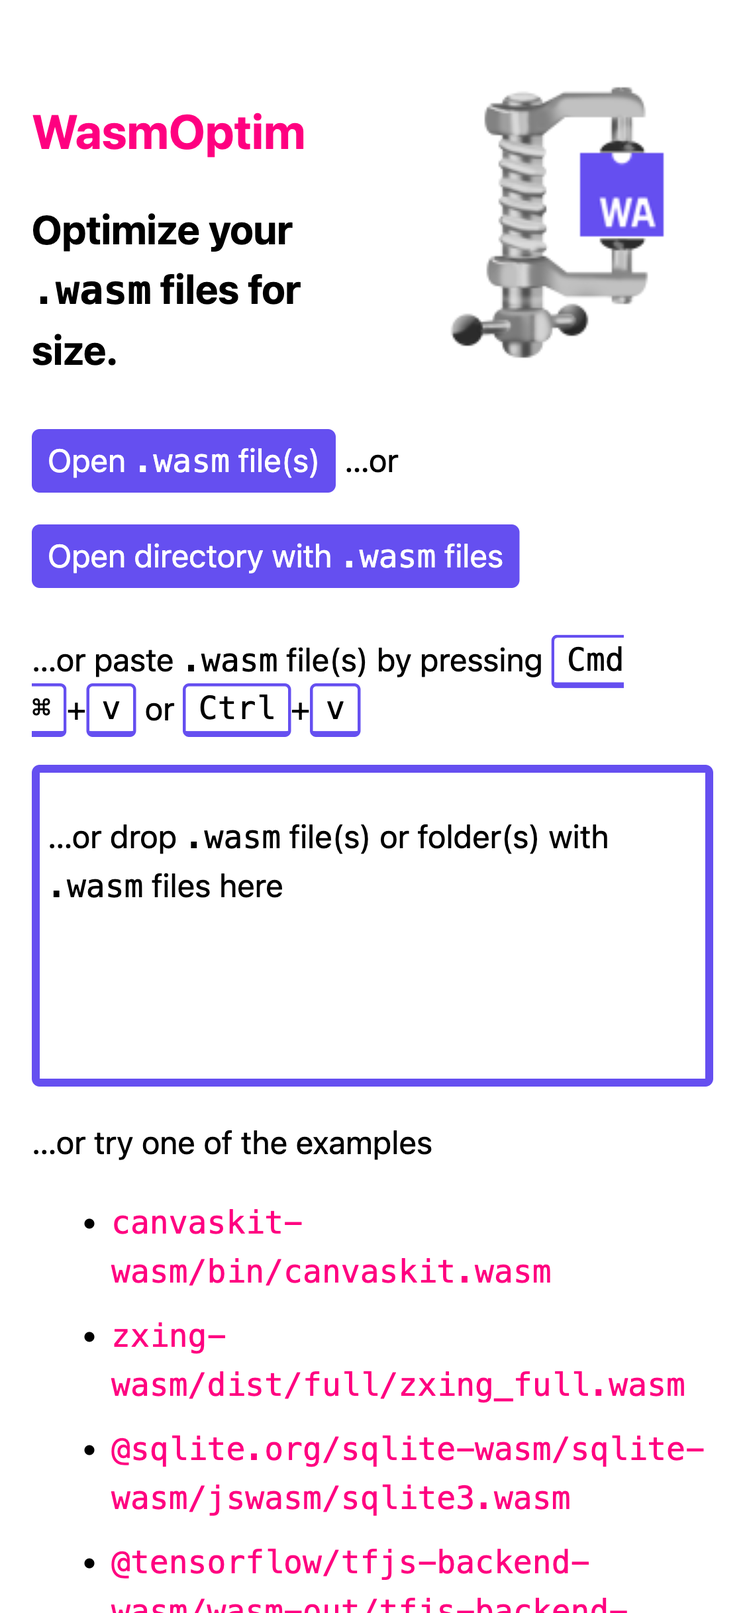
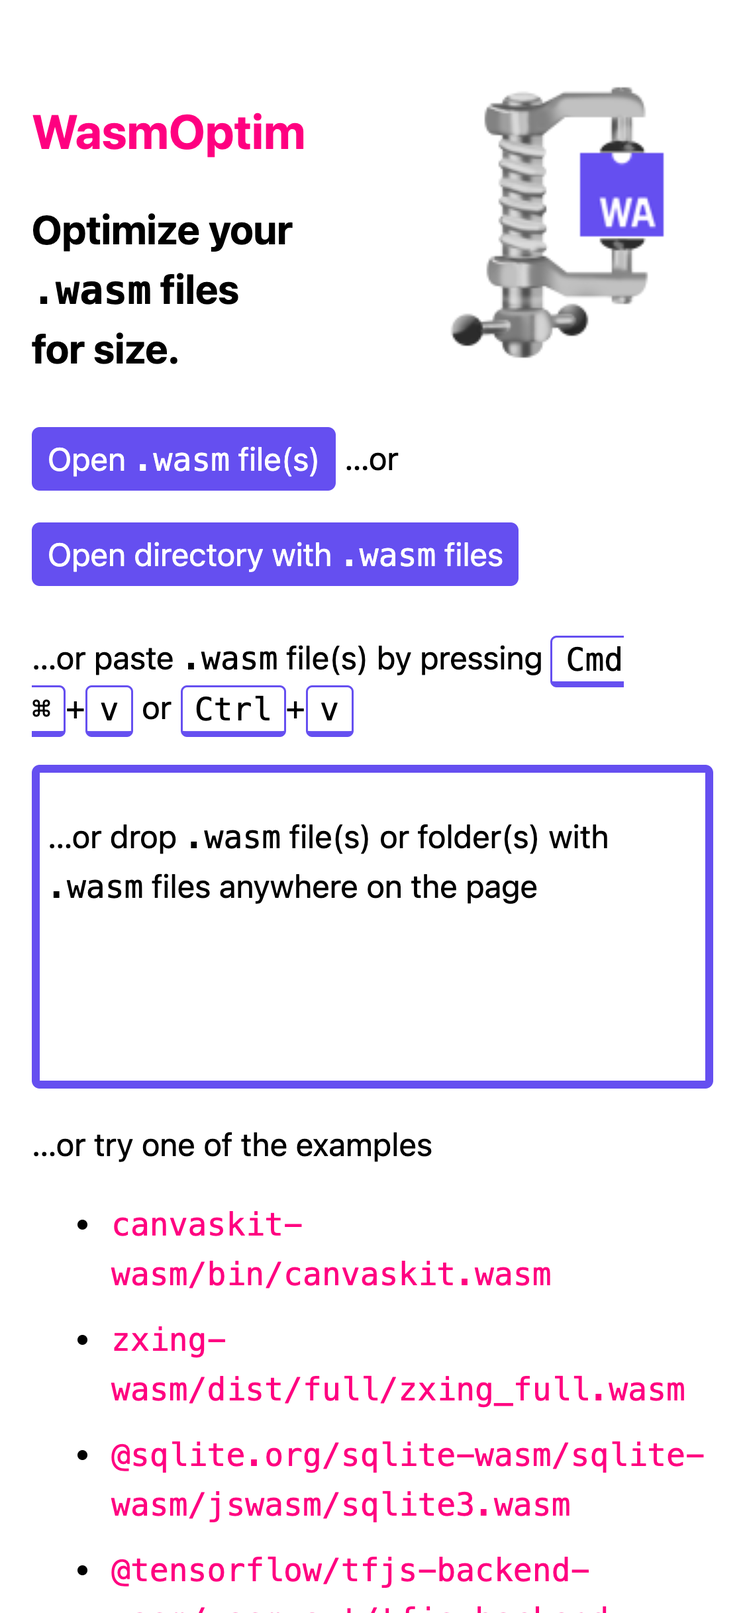
Properly lazy-load file system observer

diff --git a/docs/assets/index-Q6DBO2Sq.js b/docs/assets/index-Q6DBO2Sq.js
@@ -1,0 +1,7 @@
+(function(){const t=document.createElement("link").relList;if(t&&t.supports&&t.supports("modulepreload"))return;for(const o of document.querySelectorAll('link[rel="modulepreload"]'))s(o);new MutationObserver(o=>{for(const n of o)if(n.type==="childList")for(const a of n.addedNodes)a.tagName==="LINK"&&a.rel==="modulepreload"&&s(a)}).observe(document,{childList:!0,subtree:!0});function r(o){const n={};return o.integrity&&(n.integrity=o.integrity),o.referrerPolicy&&(n.referrerPolicy=o.referrerPolicy),o.crossOrigin==="use-credentials"?n.credentials="include":o.crossOrigin==="anonymous"?n.credentials="omit":n.credentials="same-origin",n}function s(o){if(o.ep)return;o.ep=!0;const n=r(o);fetch(o.href,n)}})();const re="modulepreload",se=function(e){return"/wasmoptim/"+e},$={},k=function(t,r,s){if(!r||r.length===0)return t();const o=document.getElementsByTagName("link");return Promise.all(r.map(n=>{if(n=se(n),n in $)return;$[n]=!0;const a=n.endsWith(".css"),c=a?'[rel="stylesheet"]':"";if(!!s)for(let l=o.length-1;l>=0;l--){const m=o[l];if(m.href===n&&(!a||m.rel==="stylesheet"))return}else if(document.querySelector(`link[href="${n}"]${c}`))return;const d=document.createElement("link");if(d.rel=a?"stylesheet":re,a||(d.as="script",d.crossOrigin=""),d.href=n,document.head.appendChild(d),a)return new Promise((l,m)=>{d.addEventListener("load",l),d.addEventListener("error",()=>m(new Error(`Unable to preload CSS for ${n}`)))})})).then(()=>t()).catch(n=>{const a=new Event("vite:preloadError",{cancelable:!0});if(a.payload=n,window.dispatchEvent(a),!a.defaultPrevented)throw n})},B="/wasmoptim/spinner.svg",v=new Map,ne="FileSystemHandle"in window&&"getUniqueId"in FileSystemHandle.prototype,W=async e=>{for(const t of e)await t.handle.requestPermission({mode:"readwrite"})},ae=async e=>{const t=[],r=async o=>{const n=await new Promise(a=>o.readEntries(a));await Promise.all(n.map(async a=>{a.isDirectory?await r(a.createReader()):t.push(a)}))},s=e.createReader();return await r(s),t},H=async(e,t,r=e.name,s)=>{const o=[],n=[];for await(const a of e.values()){const c=`${r}/${a.name}`;a.kind==="file"?n.push(a.getFile().then(i=>(i.directoryHandle=e,i.handle=a,Object.defineProperty(i,"webkitRelativePath",{configurable:!0,enumerable:!0,get:()=>c})))):a.kind==="directory"&&t&&o.push(H(a,t,c))}return[...(await Promise.all(o)).flat(),...await Promise.all(n)]},oe=["B","kB","MB","GB","TB","PB","EB","ZB","YB"],ie=["B","KiB","MiB","GiB","TiB","PiB","EiB","ZiB","YiB"],ce=["b","kbit","Mbit","Gbit","Tbit","Pbit","Ebit","Zbit","Ybit"],le=["b","kibit","Mibit","Gibit","Tibit","Pibit","Eibit","Zibit","Yibit"],M=(e,t,r)=>{let s=e;return typeof t=="string"||Array.isArray(t)?s=e.toLocaleString(t,r):(t===!0||r!==void 0)&&(s=e.toLocaleString(void 0,r)),s};function g(e,t){if(!Number.isFinite(e))throw new TypeError(`Expected a finite number, got ${typeof e}: ${e}`);t={bits:!1,binary:!1,space:!0,...t};const r=t.bits?t.binary?le:ce:t.binary?ie:oe,s=t.space?" ":"";if(t.signed&&e===0)return` 0${s}${r[0]}`;const o=e<0,n=o?"-":t.signed?"+":"";o&&(e=-e);let a;if(t.minimumFractionDigits!==void 0&&(a={minimumFractionDigits:t.minimumFractionDigits}),t.maximumFractionDigits!==void 0&&(a={maximumFractionDigits:t.maximumFractionDigits,...a}),e<1){const l=M(e,t.locale,a);return n+l+s+r[0]}const c=Math.min(Math.floor(t.binary?Math.log(e)/Math.log(1024):Math.log10(e)/3),r.length-1);e/=(t.binary?1024:1e3)**c,a||(e=e.toPrecision(3));const i=M(Number(e),t.locale,a),d=r[c];return n+i+s+d}const b=(()=>{if(typeof self>"u")return!1;if("top"in self&&self!==top)try{top.window.document._=0}catch{return!1}return"showOpenFilePicker"in self})(),de=b?Promise.resolve().then(function(){return ge}):Promise.resolve().then(function(){return ke});async function ue(...e){return(await de).default(...e)}const me=b?Promise.resolve().then(function(){return ve}):Promise.resolve().then(function(){return xe});async function fe(...e){return(await me).default(...e)}const pe=b?Promise.resolve().then(function(){return Se}):Promise.resolve().then(function(){return _e});async function G(...e){return(await pe).default(...e)}const ye=async e=>{const t=await e.getFile();return t.handle=e,t};var he=async(e=[{}])=>{Array.isArray(e)||(e=[e]);const t=[];e.forEach((o,n)=>{t[n]={description:o.description||"Files",accept:{}},o.mimeTypes?o.mimeTypes.map(a=>{t[n].accept[a]=o.extensions||[]}):t[n].accept["*/*"]=o.extensions||[]});const r=await window.showOpenFilePicker({id:e[0].id,startIn:e[0].startIn,types:t,multiple:e[0].multiple||!1,excludeAcceptAllOption:e[0].excludeAcceptAllOption||!1}),s=await Promise.all(r.map(ye));return e[0].multiple?s:s[0]},ge={__proto__:null,default:he};function z(e){function t(r){if(Object(r)!==r)return Promise.reject(new TypeError(r+" is not an object."));var s=r.done;return Promise.resolve(r.value).then(function(o){return{value:o,done:s}})}return z=function(r){this.s=r,this.n=r.next},z.prototype={s:null,n:null,next:function(){return t(this.n.apply(this.s,arguments))},return:function(r){var s=this.s.return;return s===void 0?Promise.resolve({value:r,done:!0}):t(s.apply(this.s,arguments))},throw:function(r){var s=this.s.return;return s===void 0?Promise.reject(r):t(s.apply(this.s,arguments))}},new z(e)}const Z=async(e,t,r=e.name,s)=>{const o=[],n=[];var a,c=!1,i=!1;try{for(var d,l=function(m){var u,f,y,x=2;for(typeof Symbol<"u"&&(f=Symbol.asyncIterator,y=Symbol.iterator);x--;){if(f&&(u=m[f])!=null)return u.call(m);if(y&&(u=m[y])!=null)return new z(u.call(m));f="@@asyncIterator",y="@@iterator"}throw new TypeError("Object is not async iterable")}(e.values());c=!(d=await l.next()).done;c=!1){const m=d.value,u=`${r}/${m.name}`;m.kind==="file"?n.push(m.getFile().then(f=>(f.directoryHandle=e,f.handle=m,Object.defineProperty(f,"webkitRelativePath",{configurable:!0,enumerable:!0,get:()=>u})))):m.kind!=="directory"||!t||s&&s(m)||o.push(Z(m,t,u,s))}}catch(m){i=!0,a=m}finally{try{c&&l.return!=null&&await l.return()}finally{if(i)throw a}}return[...(await Promise.all(o)).flat(),...await Promise.all(n)]};var we=async(e={})=>{e.recursive=e.recursive||!1,e.mode=e.mode||"read";const t=await window.showDirectoryPicker({id:e.id,startIn:e.startIn,mode:e.mode});return(await(await t.values()).next()).done?[t]:Z(t,e.recursive,void 0,e.skipDirectory)},ve={__proto__:null,default:we},be=async(e,t=[{}],r=null,s=!1,o=null)=>{Array.isArray(t)||(t=[t]),t[0].fileName=t[0].fileName||"Untitled";const n=[];let a=null;if(e instanceof Blob&&e.type?a=e.type:e.headers&&e.headers.get("content-type")&&(a=e.headers.get("content-type")),t.forEach((d,l)=>{n[l]={description:d.description||"Files",accept:{}},d.mimeTypes?(l===0&&a&&d.mimeTypes.push(a),d.mimeTypes.map(m=>{n[l].accept[m]=d.extensions||[]})):a?n[l].accept[a]=d.extensions||[]:n[l].accept["*/*"]=d.extensions||[]}),r)try{await r.getFile()}catch(d){if(r=null,s)throw d}const c=r||await window.showSaveFilePicker({suggestedName:t[0].fileName,id:t[0].id,startIn:t[0].startIn,types:n,excludeAcceptAllOption:t[0].excludeAcceptAllOption||!1});!r&&o&&o(c);const i=await c.createWritable();return"stream"in e?(await e.stream().pipeTo(i),c):"body"in e?(await e.body.pipeTo(i),c):(await i.write(await e),await i.close(),c)},Se={__proto__:null,default:be},Le=async(e=[{}])=>(Array.isArray(e)||(e=[e]),new Promise((t,r)=>{const s=document.createElement("input");s.type="file";const o=[...e.map(i=>i.mimeTypes||[]),...e.map(i=>i.extensions||[])].join();s.multiple=e[0].multiple||!1,s.accept=o||"",s.style.display="none",document.body.append(s);const n=i=>{typeof a=="function"&&a(),t(i)},a=e[0].legacySetup&&e[0].legacySetup(n,()=>a(r),s),c=()=>{window.removeEventListener("focus",c),s.remove()};s.addEventListener("click",()=>{window.addEventListener("focus",c)}),s.addEventListener("change",()=>{window.removeEventListener("focus",c),s.remove(),n(s.multiple?Array.from(s.files):s.files[0])}),"showPicker"in HTMLInputElement.prototype?s.showPicker():s.click()})),ke={__proto__:null,default:Le},Ee=async(e=[{}])=>(Array.isArray(e)||(e=[e]),e[0].recursive=e[0].recursive||!1,new Promise((t,r)=>{const s=document.createElement("input");s.type="file",s.webkitdirectory=!0;const o=a=>{typeof n=="function"&&n(),t(a)},n=e[0].legacySetup&&e[0].legacySetup(o,()=>n(r),s);s.addEventListener("change",()=>{let a=Array.from(s.files);e[0].recursive?e[0].recursive&&e[0].skipDirectory&&(a=a.filter(c=>c.webkitRelativePath.split("/").every(i=>!e[0].skipDirectory({name:i,kind:"directory"})))):a=a.filter(c=>c.webkitRelativePath.split("/").length===2),o(a)}),"showPicker"in HTMLInputElement.prototype?s.showPicker():s.click()})),xe={__proto__:null,default:Ee},Pe=async(e,t={})=>{Array.isArray(t)&&(t=t[0]);const r=document.createElement("a");let s=e;"body"in e&&(s=await async function(a,c){const i=a.getReader(),d=new ReadableStream({start:u=>async function f(){return i.read().then(({done:y,value:x})=>{if(!y)return u.enqueue(x),f();u.close()})}()}),l=new Response(d),m=await l.blob();return i.releaseLock(),new Blob([m],{type:c})}(e.body,e.headers.get("content-type"))),r.download=t.fileName||"Untitled",r.href=URL.createObjectURL(await s);const o=()=>{typeof n=="function"&&n()},n=t.legacySetup&&t.legacySetup(o,()=>n(),r);return r.addEventListener("click",()=>{setTimeout(()=>URL.revokeObjectURL(r.href),3e4),o()}),r.click(),null},_e={__proto__:null,default:Pe};const Ae=document.querySelector("#load-wasm"),V=document.querySelector("#merge-button"),L=document.querySelector("#merge-area"),qe=document.querySelector("#load-directory"),O=document.querySelector("#drop-area"),w=document.querySelector("#results-area"),ze=document.querySelector("#total-delta-size"),Fe=document.querySelector("#stats-template"),Te=document.querySelector("#example-template"),Ce=document.querySelector("#stats-header"),F=document.querySelector("#select-all-checkbox"),h=document.querySelector("#overwrite-checkbox"),Be=document.querySelector("#observe-file-changes-checkbox"),Y=document.querySelector("#observe-directory-changes-checkbox"),K=document.querySelector("#examples-list"),U=document.querySelector("meta[name=theme-color]"),Oe=document.querySelector("#stats-files"),De=document.querySelector("#stats-size"),Ie=document.querySelector("#stats-percent"),T=crypto.randomUUID();V.addEventListener("click",async()=>{const e=L.querySelector(".file-name"),t=L.querySelector(".before-size"),r=L.querySelector(".after-size"),s=L.querySelector(".delta-size"),o=L.querySelector(".spinner");e.hidden=!0,e.dataset.uuid=T,L.hidden=!1,o.src=B,r.classList.remove("error"),r.textContent="",s.textContent="Merging…",s.classList.remove("size-smaller"),s.classList.remove("size-larger"),s.classList.remove("error");const n=[],a=[];w.querySelectorAll("input:checked").forEach(d=>{const l=d.closest("tr").querySelector("[data-uuid]").dataset.uuid,{file:m}=v.get(l);n.push(m),a.push(l)});const c=n.reduce((d,l)=>d+l.size,0);t.textContent=`Σ ${g(c)}`;const i=new Worker(new URL("/wasmoptim/assets/merge-worker-ib07Dost.js",import.meta.url),{type:"module"});i.addEventListener("message",async d=>{if(d.data.status){s.textContent="Optimizing…";return}i.terminate();const{file:l,error:m}=d.data;if(o.removeAttribute("src"),m){const y=new Error(m);r.classList.add("error"),s.classList.add("error"),r.textContent=y.name,s.textContent=y.message;return}e.hidden=!1,e.querySelector("code").textContent=l.name,r.textContent=g(l.size);const u=l.size-c;console.log(`${new Intl.ListFormat("en",{style:"long",type:"conjunction"}).format(n.map(y=>y.name))} merged → Before Σ: ${c} After: ${l.size} Delta: ${u}`);const f=Math.abs(100-l.size/c*100).toFixed(2);s.textContent=Number(f)===0?"no change":`${f}% ${u<0?"smaller":"larger"} (${g(Math.abs(u))})`,s.classList.add(Number(f)===0?"size-larger":u<0?"size-smaller":"size-larger"),v.set(T,{file:l})}),i.postMessage({wasmFiles:n,uuids:a})});const Ne=async(e,t)=>{const r=[],s=async n=>{for(const[a,c]of n)try{r[a]=await c()}catch(i){r[a]=new Error(`Failed with: ${i.message}`)}},o=new Array(t).fill(e.entries()).map(s);return await Promise.allSettled(o),r},Ue=(e,t)=>{let r;return function(...o){const n=()=>{clearTimeout(r),e(...o)};clearTimeout(r),r=setTimeout(n,t)}},X="https://wasmoptim-stats.glitch.me",Re=async(e,t)=>{const r={"Content-Type":"application/json"},s=JSON.stringify({beforeSize:e,afterSize:t});try{await(await fetch(`${X}/saved-bytes`,{method:"POST",headers:r,body:s})).json()}catch(o){if(location.hostname==="localhost")return;console.error(o.name,o.message)}},J=async()=>{const e={"Content-Type":"application/json"};try{const r=await(await fetch(`${X}/saved-bytes`,{method:"GET",headers:e})).json();Oe.textContent=`${new Intl.NumberFormat().format(r.entryCount)} ${r.entryCount===1?"file":"files"}`,De.textContent=g(r.totalBytesSaved),Ie.textContent=Number(r.averagePercentageSaved).toFixed(2)}catch(t){if(location.hostname==="localhost")return;console.error(t.name,t.message)}};J();const j="setAppBadge"in navigator;let q=0;const _=async(e,t=!1)=>{Ce.hidden=!1,w.closest("table").hidden=!1;const r=[];for(const s of e){const o=ne&&s.handle?await s.handle.getUniqueId():s.name;let n,a,c,i,d,l;const m=w.querySelector(`[data-uuid="${o}"]`);if(m){const u=m.closest("tr");n=u.querySelector(".file-name"),a=u.querySelector(".before-size"),c=u.querySelector(".after-size"),i=u.querySelector(".delta-size"),d=u.querySelector(".spinner"),l=u.querySelector(".merge-checkbox")}else{const u=Fe.content.cloneNode(!0);n=u.querySelector(".file-name"),a=u.querySelector(".before-size"),c=u.querySelector(".after-size"),i=u.querySelector(".delta-size"),d=u.querySelector(".spinner"),l=u.querySelector(".merge-checkbox"),w.append(u);const f=w.querySelectorAll("tr").length>1;F.closest("th").style.display=f?"":"none",w.querySelectorAll("input").forEach(y=>{y.closest("td").style.display=f?"":"none"})}if(d.src=B,i.textContent="Optimizing…",i.classList.remove("size-smaller"),i.classList.remove("size-larger"),i.classList.remove("error"),c.classList.remove("error"),n.querySelector("code").textContent=s.name,n.classList.add("processing"),l.classList.add("processing"),l.disabled=!0,j)try{await navigator.setAppBadge(++q)}catch(u){console.error(u.name,u.message)}a.textContent=g(s.size),n.dataset.uuid=o,r.push(()=>new Promise((u,f)=>{const y=new Worker(new URL("/wasmoptim/assets/binaryen-worker-vGG0wOcy.js",import.meta.url));y.addEventListener("message",async x=>{if(y.terminate(),d.removeAttribute("src"),n.classList.remove("processing"),l.classList.remove("processing"),l.disabled=!1,j){--q;try{q===0?await navigator.clearAppBadge():await navigator.setAppBadge(q)}catch(p){console.error(p.name,p.message)}}const{wasmFileAfter:S,error:I}=x.data;if(I){const p=new Error(I);n.classList.add("error"),c.classList.add("error"),i.classList.add("error"),l.classList.add("error"),l.disabled=!0,c.textContent=p.name,i.textContent=p.message,f(p);return}c.textContent=g(S.size);const E=S.size-s.size;console.log(`${s.name} processed → Before: ${s.size} After: ${S.size} Delta: ${E}`);const C=Math.abs(100-S.size/s.size*100).toFixed(2);i.textContent=Number(C)===0?"no change":`${C}% ${E<0?"smaller":"larger"} (${g(Math.abs(E))})`,i.classList.add(Number(C)===0?"size-larger":E<0?"size-smaller":"size-larger"),v.set(o,{file:S,handle:s.handle,savings:E});const N=[];for(const[p,{savings:A}]of v.entries())p!==T&&N.push(A);const R=N.reduce((p,A)=>p+A,0),te=R/v.size;if(ze.textContent=`Saved ${g(Math.abs(R))} in total and ${g(Math.abs(te))} per file on average`,E<0&&(Re(s.size,S.size).then(()=>J()),ee&&b&&h.checked&&s.handle))try{const p=await s.handle.createWritable();await p.write(S),await p.close()}catch(p){console.error(p.name,p.message)}if(P&&Be.checked&&s.handle){const{getFileSystemChangeObserver:p}=await k(()=>import("./file-system-observer-bRkZsY_G.js"),__vite__mapDeps([]));p().observe(s.handle),console.log(`File ${s.name} → Observing changes`)}u()}),y.postMessage({wasmFileBefore:s})}))}await Ne(r,"hardwareConcurrency"in navigator?Math.floor(navigator.hardwareConcurrency):4)};b&&(h.parentNode.hidden=!1,h.addEventListener("change",()=>{localStorage.setItem("overwrite-original-files",h.checked);const e=[];if(h.checked){for(const[t,{file:r}]of v.entries())t===T||!r.handle||e.push(r);W(e)}}),localStorage.getItem("overwrite-original-files")!=="true"?h.checked=!1:h.checked=!0);const $e=["https://unpkg.com/canvaskit-wasm@0.39.1/bin/canvaskit.wasm","https://unpkg.com/zxing-wasm@1.0.0-rc.4/dist/full/zxing_full.wasm","https://unpkg.com/@sqlite.org/sqlite-wasm@3.44.0-build1/sqlite-wasm/jswasm/sqlite3.wasm","https://unpkg.com/@tensorflow/tfjs-backend-wasm@4.13.0/wasm-out/tfjs-backend-wasm.wasm"],Me=/@(0|[1-9]\d*)\.(0|[1-9]\d*)\.(0|[1-9]\d*)(?:-((?:0|[1-9]\d*|\d*[a-zA-Z-][0-9a-zA-Z-]*)(?:\.(?:0|[1-9]\d*|\d*[a-zA-Z-][0-9a-zA-Z-]*))*))?(?:\+([0-9a-zA-Z-]+(?:\.[0-9a-zA-Z-]+)*))?/;$e.forEach(e=>{const t=Te.content.cloneNode(!0),r=t.querySelector("code"),s=t.querySelector("a");r.textContent=e.replace("https://unpkg.com/","").replace(Me,""),s.href=e,K.append(t)});K.addEventListener("click",async e=>{const t=e.target.nodeName.toLowerCase();if(t!=="a"&&t!=="code")return;e.preventDefault();const r=e.target.closest("a"),s=r.href,o=r.parentNode.querySelector(".downloading");o.textContent="Downloading…",o.classList.remove("error"),o.hidden=!1;const n=r.parentNode.querySelector("img");n.src=B;try{const a=await fetch(s).then(i=>i.blob());n.removeAttribute("src"),o.hidden=!0;const c=new File([a],s.split("/").pop(),{type:"application/wasm"});c.handle=!1,_([c])}catch(a){console.error(a.name,a.message),n.removeAttribute("src"),o.classList.add("error"),o.textContent=a.message}});document.addEventListener("paste",e=>{try{if(!e.clipboardData.files.length)return;const t=Array.from(e.clipboardData.files).filter(r=>r.type==="application/wasm"||r.name.endsWith(".wasm")||r.name.endsWith(".wat"));_(t)}catch(t){console.error(t.name,t.message)}});const D=()=>{const e=w.querySelectorAll("input:checked").length;V.style.display=e<2?"none":""};D();F.addEventListener("click",()=>{w.querySelectorAll("input:not(:disabled)").forEach(e=>{e.checked=F.checked}),D()});w.addEventListener("click",async e=>{const t=e.target.nodeName.toLowerCase();if(t==="input"||t==="label"){if(e.target.classList.contains("error")||e.target.classList.contains("processing"))return;e.target.checked||(F.checked=!1),D();return}if(t!=="a"&&t!=="code")return;e.preventDefault();const r=e.target.closest("a");if(!r.classList.contains("file-name")||r.classList.contains("error")||r.classList.contains("processing"))return;const s=r.dataset.uuid,{file:o,handle:n}=v.get(s);try{await G(o,{fileName:o.name,extensions:[".wasm",".wat"],mimeTypes:["application/wasm"],existingHandle:n||void 0,startIn:n||void 0})}catch(a){if(a.name==="AbortError")return;console.error(a.name,a.message)}});L.addEventListener("click",async e=>{const t=e.target.nodeName.toLowerCase();if(t!=="a"&&t!=="code")return;e.preventDefault();const r=e.target.closest("a");if(!r.classList.contains("file-name")||r.classList.contains("error")||r.classList.contains("processing"))return;const s=r.dataset.uuid,{file:o,handle:n}=v.get(s);try{await G(o,{fileName:o.name,extensions:[".wasm"],mimeTypes:["application/wasm"],existingHandle:n||void 0,startIn:n||void 0})}catch(a){if(a.name==="AbortError")return;console.error(a.name,a.message)}});qe.addEventListener("click",async()=>{try{const e=await fe({recursive:!0,mode:h.checked?"readwrite":"read"}),t=e.filter(r=>r.type==="application/wasm"||r.name.endsWith(".wasm")||r.name.endsWith(".wat"));if(b&&P&&Y.checked){let r=[];for(const a of e)r.push(a.directoryHandle);r=[...new Set(r)];const{getFileSystemChangeObserver:s,observedDirectories:o}=await k(()=>import("./file-system-observer-bRkZsY_G.js"),__vite__mapDeps([])),n=s();r.forEach(a=>{n.observe(a,{recursive:!0}),o.add(a),console.log(`Directory ${a.name} → Observing changes`)})}_(t)}catch(e){if(e.name==="AbortError")return;console.error(e.name,e.message)}});Ae.addEventListener("click",async()=>{try{const e=await ue({mimeTypes:["application/wasm"],extensions:[".wasm",".wat"],multiple:!0});if(!e||!e.length)return;_(e)}catch(e){if(e.name==="AbortError")return;console.error(e.name,e.message)}});document.addEventListener("dragover",e=>{e.preventDefault()});document.addEventListener("dragenter",e=>{e.preventDefault(),O.classList.add("drag-hover")});document.addEventListener("dragleave",e=>{e.preventDefault(),e.target===document.documentElement&&O.classList.remove("drag-hover")});document.addEventListener("drop",async e=>{e.preventDefault(),O.classList.remove("drag-hover");const t=[...e.dataTransfer.items].filter(n=>n.kind==="file").map(n=>ee?n.getAsFileSystemHandle():n.webkitGetAsEntry()),r=[];let s,o;P&&({getFileSystemChangeObserver:s,observedDirectories:o}=await k(()=>import("./file-system-observer-bRkZsY_G.js"),__vite__mapDeps([])));for await(const n of t){if(n.kind==="directory"){let c=await H(n,!0);if(c=c.filter(i=>i.type==="application/wasm"||i.name.endsWith(".wasm")||i.name.endsWith(".wat")),r.push(...c),P&&Y.checked){let i=[];for(const l of c)i.push(l.directoryHandle);i=[...new Set(i)];const d=s();i.forEach(l=>{d.observe(l,{recursive:!0}),o.add(l),console.log(`Directory ${l.name} → Observing changes`)})}continue}else if(n.isDirectory){let c=await ae(n);c=c.filter(i=>i.name.endsWith(".wasm")||i.name.endsWith(".wat")),r.push(...await Promise.all(c.map(async i=>new Promise(d=>i.file(d)))));continue}let a;n.kind==="file"?(a=await n.getFile(),a.handle=n):n.isFile&&(a=await new Promise(c=>n.file(i=>c(i)))),!(a.type&&a.type!=="application/wasm"||!a.name.endsWith(".wasm")&&!a.name.endsWith(".wat"))&&r.push(a)}b&&b&&h.checked&&await W(r),_(r)});const Q=e=>{if(e.matches){U.content="rgb(32, 33, 36)";return}U.content="#fff"};matchMedia("(prefers-color-scheme: dark)").addEventListener("change",Q);Q(matchMedia("(prefers-color-scheme: dark)"));const ee="getAsFileSystemHandle"in DataTransferItem.prototype,P="FileSystemObserver"in window;(async()=>{if(P&&k(()=>import("./file-system-observer-bRkZsY_G.js"),__vite__mapDeps([])),"launchQueue"in window&&"files"in LaunchParams.prototype&&k(()=>import("./file-handling-2mzXeyDV.js"),__vite__mapDeps([])),"serviceWorker"in navigator){const{registerSW:e}=await k(()=>import("./virtual_pwa-register-vkA2GBtN.js"),__vite__mapDeps([]));e({onOfflineReady(){},onNeedRefresh(){location.reload()}})(),"share"in navigator&&k(()=>import("./web-share-target-t8B_ZJyO.js"),__vite__mapDeps([]))}})();export{T as M,k as _,Y as a,_ as b,h as c,Ue as d,b as e,W as f,Be as o,H as r,ne as s,v as u};
+function __vite__mapDeps(indexes) {
+  if (!__vite__mapDeps.viteFileDeps) {
+    __vite__mapDeps.viteFileDeps = []
+  }
+  return indexes.map((i) => __vite__mapDeps.viteFileDeps[i])
+}

diff --git a/docs/sw.js b/docs/sw.js
@@ -1,1 +1,1 @@
-if(!self.define){let e,s={};const r=(r,i)=>(r=new URL(r+".js",i).href,s[r]||new Promise((s=>{if("document"in self){const e=document.createElement("script");e.src=r,e.onload=s,document.head.appendChild(e)}else e=r,importScripts(r),s()})).then((()=>{let e=s[r];if(!e)throw new Error(`Module ${r} didn’t register its module`);return e})));self.define=(i,n)=>{const l=e||("document"in self?document.currentScript.src:"")||location.href;if(s[l])return;let o={};const a=e=>r(e,l),t={module:{uri:l},exports:o,require:a};s[l]=Promise.all(i.map((e=>t[e]||a(e)))).then((e=>(n(...e),o)))}}define(["./workbox-fa446783"],(function(e){"use strict";self.skipWaiting(),e.clientsClaim(),e.precacheAndRoute([{url:"assets/binaryen_wasm-jWqOSAAT.js",revision:null},{url:"assets/binaryen_wasm-oRR6JeeR.js",revision:null},{url:"assets/binaryen_wasm-r8Q--SC0.wasm",revision:null},{url:"assets/binaryen-worker-vGG0wOcy.js",revision:null},{url:"assets/file-handling-wuCxQmi7.js",revision:null},{url:"assets/index-5JlHWayF.css",revision:null},{url:"assets/index-5tyMNrCW.js",revision:null},{url:"assets/index-vsgyoISD.js",revision:null},{url:"assets/merge-worker-ib07Dost.js",revision:null},{url:"assets/virtual_pwa-register-4GNnbKOC.js",revision:null},{url:"assets/wasm-merge-7ok0ZlNP.js",revision:null},{url:"assets/wasm-merge-e5IqBEBc.wasm",revision:null},{url:"assets/wasm-merge-zZ-7ha50.js",revision:null},{url:"assets/web-share-target-O0yJg1MM.js",revision:null},{url:"assets/workbox-window.prod.es5-prqDwDSL.js",revision:null},{url:"icon.png",revision:"6ccc68d8ea198758b158766f5a9b8f7c"},{url:"index.html",revision:"e5e572db2d02f94d3c7b08dc10040422"},{url:"maskable-icon.png",revision:"505ab550035e060645545981c3f01b33"},{url:"screenshot-desktop-dark.png",revision:"ec79e7dc29483a5cafdc1bd8c5048ab4"},{url:"screenshot-desktop-light.png",revision:"f1662d767e06603d9cdaef5e2b3efb0e"},{url:"screenshot-mobile-dark.png",revision:"401fc7bf8aad4c544900dc754b8eb3bd"},{url:"screenshot-mobile-light.png",revision:"2d42196aff81781523811f68e51bf63e"},{url:"sharetargetsw.js",revision:"d874c39e9aeea426e3b64f666e6fd550"},{url:"spinner.svg",revision:"068c25a9cdb15f2d3095a21aff1becc4"},{url:"wasm-icon.svg",revision:"dd206e361d35fd8a49d9375ad548b68c"},{url:"maskable-icon.png",revision:"505ab550035e060645545981c3f01b33"},{url:"icon.png",revision:"6ccc68d8ea198758b158766f5a9b8f7c"},{url:"manifest.webmanifest",revision:"e5bf6986dd9172022154701161ee1873"}],{}),e.cleanupOutdatedCaches(),e.registerRoute(new e.NavigationRoute(e.createHandlerBoundToURL("index.html")))}));
+if(!self.define){let e,s={};const r=(r,i)=>(r=new URL(r+".js",i).href,s[r]||new Promise((s=>{if("document"in self){const e=document.createElement("script");e.src=r,e.onload=s,document.head.appendChild(e)}else e=r,importScripts(r),s()})).then((()=>{let e=s[r];if(!e)throw new Error(`Module ${r} didn’t register its module`);return e})));self.define=(i,n)=>{const l=e||("document"in self?document.currentScript.src:"")||location.href;if(s[l])return;let o={};const a=e=>r(e,l),t={module:{uri:l},exports:o,require:a};s[l]=Promise.all(i.map((e=>t[e]||a(e)))).then((e=>(n(...e),o)))}}define(["./workbox-fa446783"],(function(e){"use strict";self.skipWaiting(),e.clientsClaim(),e.precacheAndRoute([{url:"assets/binaryen_wasm-jWqOSAAT.js",revision:null},{url:"assets/binaryen_wasm-oRR6JeeR.js",revision:null},{url:"assets/binaryen_wasm-r8Q--SC0.wasm",revision:null},{url:"assets/binaryen-worker-vGG0wOcy.js",revision:null},{url:"assets/file-handling-2mzXeyDV.js",revision:null},{url:"assets/file-system-observer-bRkZsY_G.js",revision:null},{url:"assets/index-5tyMNrCW.js",revision:null},{url:"assets/index-Q6DBO2Sq.js",revision:null},{url:"assets/index-SwBDhlE-.css",revision:null},{url:"assets/merge-worker-ib07Dost.js",revision:null},{url:"assets/virtual_pwa-register-vkA2GBtN.js",revision:null},{url:"assets/wasm-merge-7ok0ZlNP.js",revision:null},{url:"assets/wasm-merge-e5IqBEBc.wasm",revision:null},{url:"assets/wasm-merge-zZ-7ha50.js",revision:null},{url:"assets/web-share-target-t8B_ZJyO.js",revision:null},{url:"assets/workbox-window.prod.es5-prqDwDSL.js",revision:null},{url:"icon.png",revision:"6ccc68d8ea198758b158766f5a9b8f7c"},{url:"index.html",revision:"d58b4d6d3f1d2184d9da6907bc8a1f94"},{url:"maskable-icon.png",revision:"505ab550035e060645545981c3f01b33"},{url:"screenshot-desktop-dark.png",revision:"0c250158690676dddba865a2be553786"},{url:"screenshot-desktop-light.png",revision:"b0859eeb83f1a2554320e281e75da5c6"},{url:"screenshot-mobile-dark.png",revision:"97fae4ef944644ba0619d9a03f8b88ba"},{url:"screenshot-mobile-light.png",revision:"6296a3de0e8da358641d365eeaec808c"},{url:"sharetargetsw.js",revision:"d874c39e9aeea426e3b64f666e6fd550"},{url:"spinner.svg",revision:"068c25a9cdb15f2d3095a21aff1becc4"},{url:"wasm-icon.svg",revision:"dd206e361d35fd8a49d9375ad548b68c"},{url:"maskable-icon.png",revision:"505ab550035e060645545981c3f01b33"},{url:"icon.png",revision:"6ccc68d8ea198758b158766f5a9b8f7c"},{url:"manifest.webmanifest",revision:"e5bf6986dd9172022154701161ee1873"}],{}),e.cleanupOutdatedCaches(),e.registerRoute(new e.NavigationRoute(e.createHandlerBoundToURL("index.html")))}));

diff --git a/docs/assets/index-SwBDhlE-.css b/docs/assets/index-SwBDhlE-.css
@@ -1,0 +1,1 @@
+:root{--canvas-text-color: #000;--canvas-color: #fff;--table-row-odd-background-color: #eee;--table-row-even-background-color: #ddd;--deepest-pink: deeppink;--deepest-green: lime;--blue: #654ff0;--accent-color: var(--blue);color-scheme:dark light;background-color:var(--canvas-color);color:var(--canvas-text-color);accent-color:var(--accent-color)}html{box-sizing:border-box}*,*:before,*:after{box-sizing:inherit}@supports (color: color(display-p3 1 1 1)){:root{--deepest-pink: color(display-p3 1 0 .5);--deepest-green: color(display-p3 0 1 0)}}@media (prefers-color-scheme: dark){:root{--canvas-text-color: #fff;--canvas-color: rgb(32 33 36);--table-row-odd-background-color: #333;--table-row-even-background-color: #444}.spinner{filter:invert(1)}}body{font-family:system-ui,sans-serif;line-height:1.5;margin:1rem;display:flex;flex-direction:column;align-items:center}#titlebar{display:none;background-color:var(--canvas-color);-webkit-app-region:drag;app-region:drag;left:env(titlebar-area-x,0);top:env(titlebar-area-y,0);width:env(titlebar-area-width,100%);height:env(titlebar-area-height,33px);position:fixed}@media (display-mode: window-controls-overlay){#titlebar{display:block}}main{margin-block-start:max(0px,calc(env(titlebar-area-height,0px) + 1rem));max-width:50rem}h1{font-size:1.5rem}h1>a{color:var(--deepest-pink);text-decoration:none}h2{font-size:1.25rem;text-wrap:pretty}.logo{float:right}footer{margin-block-start:2rem;border-top:solid .1rem var(--blue);font-size:.75rem;padding:.5rem;width:100%;max-width:50rem}footer a{color:var(--deepest-pink)}img:not([src]){display:none}button{user-select:none;background-color:var(--blue);display:inline-block;border:none;padding-inline:.5rem;margin-block:.5rem;border-radius:.25rem;color:#fff;font-family:inherit;font-size:inherit;cursor:pointer;text-align:center;appearance:none;background-repeat:no-repeat;min-width:7rem;min-height:2rem}button:hover{outline:solid .1rem var(--blue)}code{font-family:ui-monospace,monospace}a code{color:var(--deepest-pink)}kbd{font-family:ui-monospace,monospace;border:.1rem solid var(--blue);border-bottom:.2rem solid var(--blue);border-radius:.2rem;padding:.1rem .4rem}input[type=checkbox]:hover{accent-color:var(--deepest-pink)}details{margin-block:1rem;display:none}details>*{margin-block:1rem}details:has(label:not([hidden])){display:block}summary{user-select:none;cursor:pointer;width:max-content}summary:before{content:"⚙";content:"⚙" / "";display:inline-block;margin-inline-end:.5rem}summary::marker{color:var(--accent-color)}summary:hover::marker{color:var(--deepest-pink)}table{width:100%}tfoot{display:none}th{padding-inline:.5rem;position:relative}td{margin:.5rem;padding:.5rem;position:relative}tfoot th{text-align:right}tbody:has(tr:nth-child(n+2))+tfoot{display:table-footer-group}thead th:nth-child(-n+2){text-align:left;min-width:8rem}thead th:nth-child(n+3){text-align:right}td[class]{font-variant-numeric:tabular-nums;text-align:right}th>label,td>label{gap:.25rem;position:absolute;inset:0;display:flex;align-items:center;justify-content:center}tbody tr:nth-child(2n){background-color:var(--table-row-even-background-color)}tbody tr:nth-child(odd){background-color:var(--table-row-odd-background-color)}tfoot tr:nth-child(2n){background-color:var(--table-row-odd-background-color)}tfoot tr:nth-child(2n) td:first-child{background-color:var(--canvas-color)}tbody tr:hover{outline:var(--blue) solid .1rem;outline-offset:-.1rem}li{margin-block:.5rem}.spinner{width:1rem;height:1rem}.file-name:before{background-image:url(/wasmoptim/wasm-icon.svg);background-size:1rem 1rem;display:inline-block;content:"";width:1rem;height:1rem;vertical-align:middle;margin-inline-end:.5rem}#drop-area{width:100%;height:20dvh;outline:solid .25rem var(--blue);outline-offset:-.25rem;padding:.5rem;margin-block:1rem;border-radius:.25rem}#drop-area.drag-hover{outline:solid .25rem var(--deepest-pink)}.size-smaller:before,.size-larger:before{-webkit-text-fill-color:transparent;-webkit-background-clip:text;display:inline-block;margin-inline-end:.25rem}#examples-list a,#results-area a,#merge-area a{text-decoration:none;color:var(--deepest-pink)}.error{font-family:ui-monospace,monospace;color:red;word-break:break-word}#merge-area a:hover,#examples-list a:hover,#results-area a:hover:not(.error,.processing){text-decoration:underline}#results-area .error:hover{cursor:not-allowed}#results-area .processing:hover{cursor:wait}.size-smaller:before{content:"✔";content:"✔" / "";background-color:var(--deepest-green)}.size-larger:before{content:"×";content:"×" / "";transform:scale(2) translateY(-.1rem);background-color:gray;margin-inline-end:.5rem}

diff --git a/docs/index.html b/docs/index.html
@@ -3,7 +3,7 @@
   <head>
     <meta charset="UTF-8" />
     <link rel="icon" type="image/svg+xml" href="/wasmoptim/icon.png" />
[2 lines of base64/hex data omitted]
     <link
       rel="preload"
       href="/wasmoptim/assets/binaryen_wasm-oRR6JeeR.js"
@@ -69,8 +69,8 @@
     <meta name="twitter:url" content="https://tomayac.github.io/wasmoptim/" />
 
     <title>WasmOptim</title>
-    <script type="module" crossorigin src="/wasmoptim/assets/index-vsgyoISD.js"></script>
-    <link rel="stylesheet" crossorigin href="/wasmoptim/assets/index-5JlHWayF.css">
+    <script type="module" crossorigin src="/wasmoptim/assets/index-Q6DBO2Sq.js"></script>
+    <link rel="stylesheet" crossorigin href="/wasmoptim/assets/index-SwBDhlE-.css">
   <link rel="manifest" href="/wasmoptim/manifest.webmanifest"></head>
   <body>
     <div id="titlebar"></div>
@@ -107,7 +107,7 @@
       <div id="drop-area">
         <p>
           …or drop <code>.wasm</code> file(s) or folder(s) with
-          <code>.wasm</code> files here
+          <code>.wasm</code> files anywhere on the page
         </p>
       </div>
 
@@ -194,9 +194,11 @@
         Developed by <a href="https://blog.tomayac.com/">Thomas Steiner</a>.
       </p>
       <p>
-        WasmOptim has so far optimized <span id="stats-files">0 files</span>,
-        saving a total of <span id="stats-size">0 bytes</span> with a reduction
-        of <span id="stats-percent">0</span>% on average.
+        WasmOptim has so far optimized
+        <span class="stats" id="stats-files">0 files</span>, saving a total of
+        <span class="stats" id="stats-size">0 bytes</span> with a file size
+        reduction of <span class="stats" id="stats-percent">0</span>% on
+        average.
       </p>
     </footer>
 

diff --git a/docs/assets/file-system-observer-bRkZsY_G.js b/docs/assets/file-system-observer-bRkZsY_G.js
@@ -1,0 +1,1 @@
+import{d as v,o as t,a as i,u as l,M as d,r as p,s as F,b as k}from"./index-Q6DBO2Sq.js";const g=new Set;let s=null;const H=async n=>{console.log(`File system changes detected  → ${n.map(o=>`${o.changedHandle.name} (${o.type})`).join(", ")}`.trim());let e=[];for(const o of n)if(o.type==="modified"){if(o.changedHandle instanceof FileSystemFileHandle){const r=await o.changedHandle.getFile();console.log(`File ${r.name} modified → Re-optimizing`),r.handle=o.changedHandle,e.push(r)}else if(o.changedHandle instanceof FileSystemDirectoryHandle){const r=o.changedHandle;let c=await p(r,!0);console.log(`Directory ${o.changedHandle.name} modified → Getting entries`),c=c.filter(a=>a.type==="application/wasm"||a.name.endsWith(".wasm")||a.name.endsWith(".wat")),e.push(...c);const f=Array.from(l.keys()),m=e.map(async a=>F?await a.handle.getUniqueId():a.name),u=await Promise.all(m);e=e.filter((a,b)=>{const y=u[b];return!f.includes(y)})}}e=[...new Set(e)],k(e)},h=()=>(s||(s=new FileSystemObserver(v(n=>{H(n)},250))),s);localStorage.getItem("observe-file-changes")!=="true"?t.checked=!1:t.checked=!0;localStorage.getItem("observe-directory-changes")!=="true"?i.checked=!1:i.checked=!0;t.parentNode.hidden=!1;t.addEventListener("change",()=>{if(localStorage.setItem("observe-file-changes",t.checked),t.checked){h();for(const[n,{handle:e}]of l.entries())n===d||!e||(s.observe(e),console.log(`File ${e.name} → Observing changes`));return}if(s)for(const[n,{handle:e}]of l.entries())n===d||!e||(s.unobserve(e),console.log(`File ${e.name} → No longer observing changes`))});i.parentNode.hidden=!1;i.addEventListener("change",()=>{if(localStorage.setItem("observe-directory-changes",i.checked),i.checked){h();for(const n of g)s.observe(n),console.log(`Directory ${n.name} → Observing changes`);return}if(s)for(const n of g)s.unobserve(n),console.log(`Directory ${n.name} → No longer observing changes`)});export{h as getFileSystemChangeObserver,g as observedDirectories};

diff --git a/ui.js b/ui.js
@@ -28,10 +28,6 @@ import {
   metaThemeColor,
 } from './dom.js';
 import { supportsFileSystemObserver } from './main.js';
-import {
-  getFileSystemChangeObserver,
-  observedDirectories,
-} from './file-system-observer.js';
 import { MERGE_FILE_UUID } from './wasm-merge.js';
 
 if (supportsFileSystemAccess) {
@@ -248,6 +244,9 @@ loadDirectoryButton.addEventListener('click', async () => {
         directoryHandles.push(file.directoryHandle);
       }
       directoryHandles = [...new Set(directoryHandles)];
+      const { getFileSystemChangeObserver, observedDirectories } = await import(
+        './file-system-observer.js'
+      );
       const fileSystemChangeObserver = getFileSystemChangeObserver();
       directoryHandles.forEach((directoryHandle) => {
         fileSystemChangeObserver.observe(directoryHandle, { recursive: true });
@@ -311,6 +310,14 @@ document.addEventListener('drop', async (e) => {
         : item.webkitGetAsEntry(),
     );
   const wasmFilesBefore = [];
+
+  let getFileSystemChangeObserver;
+  let observedDirectories;
+  if (supportsFileSystemObserver) {
+    ({ getFileSystemChangeObserver, observedDirectories } = await import(
+      './file-system-observer.js'
+    ));
+  }
   for await (const handle of fileHandlesPromises) {
     if (handle.kind === 'directory') {
       let entries = await readDirectory(handle, true);

diff --git a/index.html b/index.html
@@ -2,8 +2,9 @@
 <html lang="en">
   <head>
     <meta charset="UTF-8" />
+    <link rel="stylesheet" href="/style.css" />
     <link rel="icon" type="image/svg+xml" href="/icon.png" />
-    <link rel="preload" href="/main.js" as="script" />
+    <link rel="preload" href="/main.js" as="script" crossorigin />
     <link
       rel="preload"
       href="/third-party/binaryen_wasm.js"
@@ -105,7 +106,7 @@
       <div id="drop-area">
         <p>
           …or drop <code>.wasm</code> file(s) or folder(s) with
-          <code>.wasm</code> files here
+          <code>.wasm</code> files anywhere on the page
         </p>
       </div>
 
@@ -192,9 +193,11 @@
         Developed by <a href="https://blog.tomayac.com/">Thomas Steiner</a>.
       </p>
       <p>
-        WasmOptim has so far optimized <span id="stats-files">0 files</span>,
-        saving a total of <span id="stats-size">0 bytes</span> with a reduction
-        of <span id="stats-percent">0</span>% on average.
+        WasmOptim has so far optimized
+        <span class="stats" id="stats-files">0 files</span>, saving a total of
+        <span class="stats" id="stats-size">0 bytes</span> with a file size
+        reduction of <span class="stats" id="stats-percent">0</span>% on
+        average.
       </p>
     </footer>
 

diff --git a/docs/assets/virtual_pwa-register-vkA2GBtN.js b/docs/assets/virtual_pwa-register-vkA2GBtN.js
@@ -1,0 +1,7 @@
+import{_ as f}from"./index-Q6DBO2Sq.js";function g(o={}){const{immediate:a=!1,onNeedRefresh:p,onOfflineReady:n,onRegistered:d,onRegisteredSW:i,onRegisterError:c}=o;let t,r;const l=async(s=!0)=>{await r};async function m(){if("serviceWorker"in navigator){const{Workbox:s}=await f(()=>import("./workbox-window.prod.es5-prqDwDSL.js"),__vite__mapDeps([]));t=new s("/wasmoptim/sw.js",{scope:"/wasmoptim/",type:"classic"}),t.addEventListener("activated",e=>{(e.isUpdate||e.isExternal)&&window.location.reload()}),t.addEventListener("installed",e=>{e.isUpdate||n?.()}),t.register({immediate:a}).then(e=>{i?i("/wasmoptim/sw.js",e):d?.(e)}).catch(e=>{c?.(e)})}}return r=m(),l}export{g as registerSW};
+function __vite__mapDeps(indexes) {
+  if (!__vite__mapDeps.viteFileDeps) {
+    __vite__mapDeps.viteFileDeps = []
+  }
+  return indexes.map((i) => __vite__mapDeps.viteFileDeps[i])
+}

diff --git a/docs/assets/web-share-target-t8B_ZJyO.js b/docs/assets/web-share-target-t8B_ZJyO.js
@@ -1,0 +1,1 @@
+import{b as n}from"./index-Q6DBO2Sq.js";(async()=>{try{await navigator.serviceWorker.register("./sharetargetsw.js",{scope:"./share-target/"})}catch(a){console.error(a.name,a.message)}if(location.search.includes("share-target"))try{const r=new URLSearchParams(location.search).get("share-target"),t=await caches.keys(),e=await caches.open(t.filter(i=>i.startsWith("media"))[0]),c=await e.match("shared-wasm-file");await e.delete("shared-wasm-file");const o=await c.blob(),s=new File([o],r,{type:"application/wasm"});s.handle=!1,n([s])}catch(a){console.error(a.name,a.message)}})();

diff --git a/file-system-observer.js b/file-system-observer.js
@@ -16,7 +16,11 @@ const observedDirectories = new Set();
 let fileSystemChangeObserver = null;
 
 const fileSystemChangeCallback = async (changes) => {
-  console.log('File system changes detected', changes);
+  console.log(
+    `File system changes detected  → ${changes
+      .map((change) => `${change.changedHandle.name} (${change.type})`)
+      .join(', ')}`.trim(),
+  );
   let wasmFilesBefore = [];
   for (const change of changes) {
     if (change.type === 'modified') {

diff --git a/docs/assets/file-handling-2mzXeyDV.js b/docs/assets/file-handling-2mzXeyDV.js
@@ -1,0 +1,1 @@
+import{e as n,c as o,f as a,b as c}from"./index-Q6DBO2Sq.js";launchQueue.setConsumer(async i=>{if(!i.files.length)return;const s=[];for(const t of i.files){const e=await t.getFile();e.handle=t,!(e.type&&e.type!=="application/wasm"||!e.name.endsWith(".wasm")&&!e.name.endsWith(".wat"))&&s.push(e)}n&&o.checked&&await a(s),c(s)});

diff --git a/style.css b/style.css
@@ -156,10 +156,15 @@ input[type="checkbox"]:hover {
 
 details {
   margin-block: 1rem;
+  display: none;
 }
 
 details > * {
   margin-block: 1rem;
+}
+
+details:has(label:not([hidden])) {
+  display: block;
 }
 
 summary {
